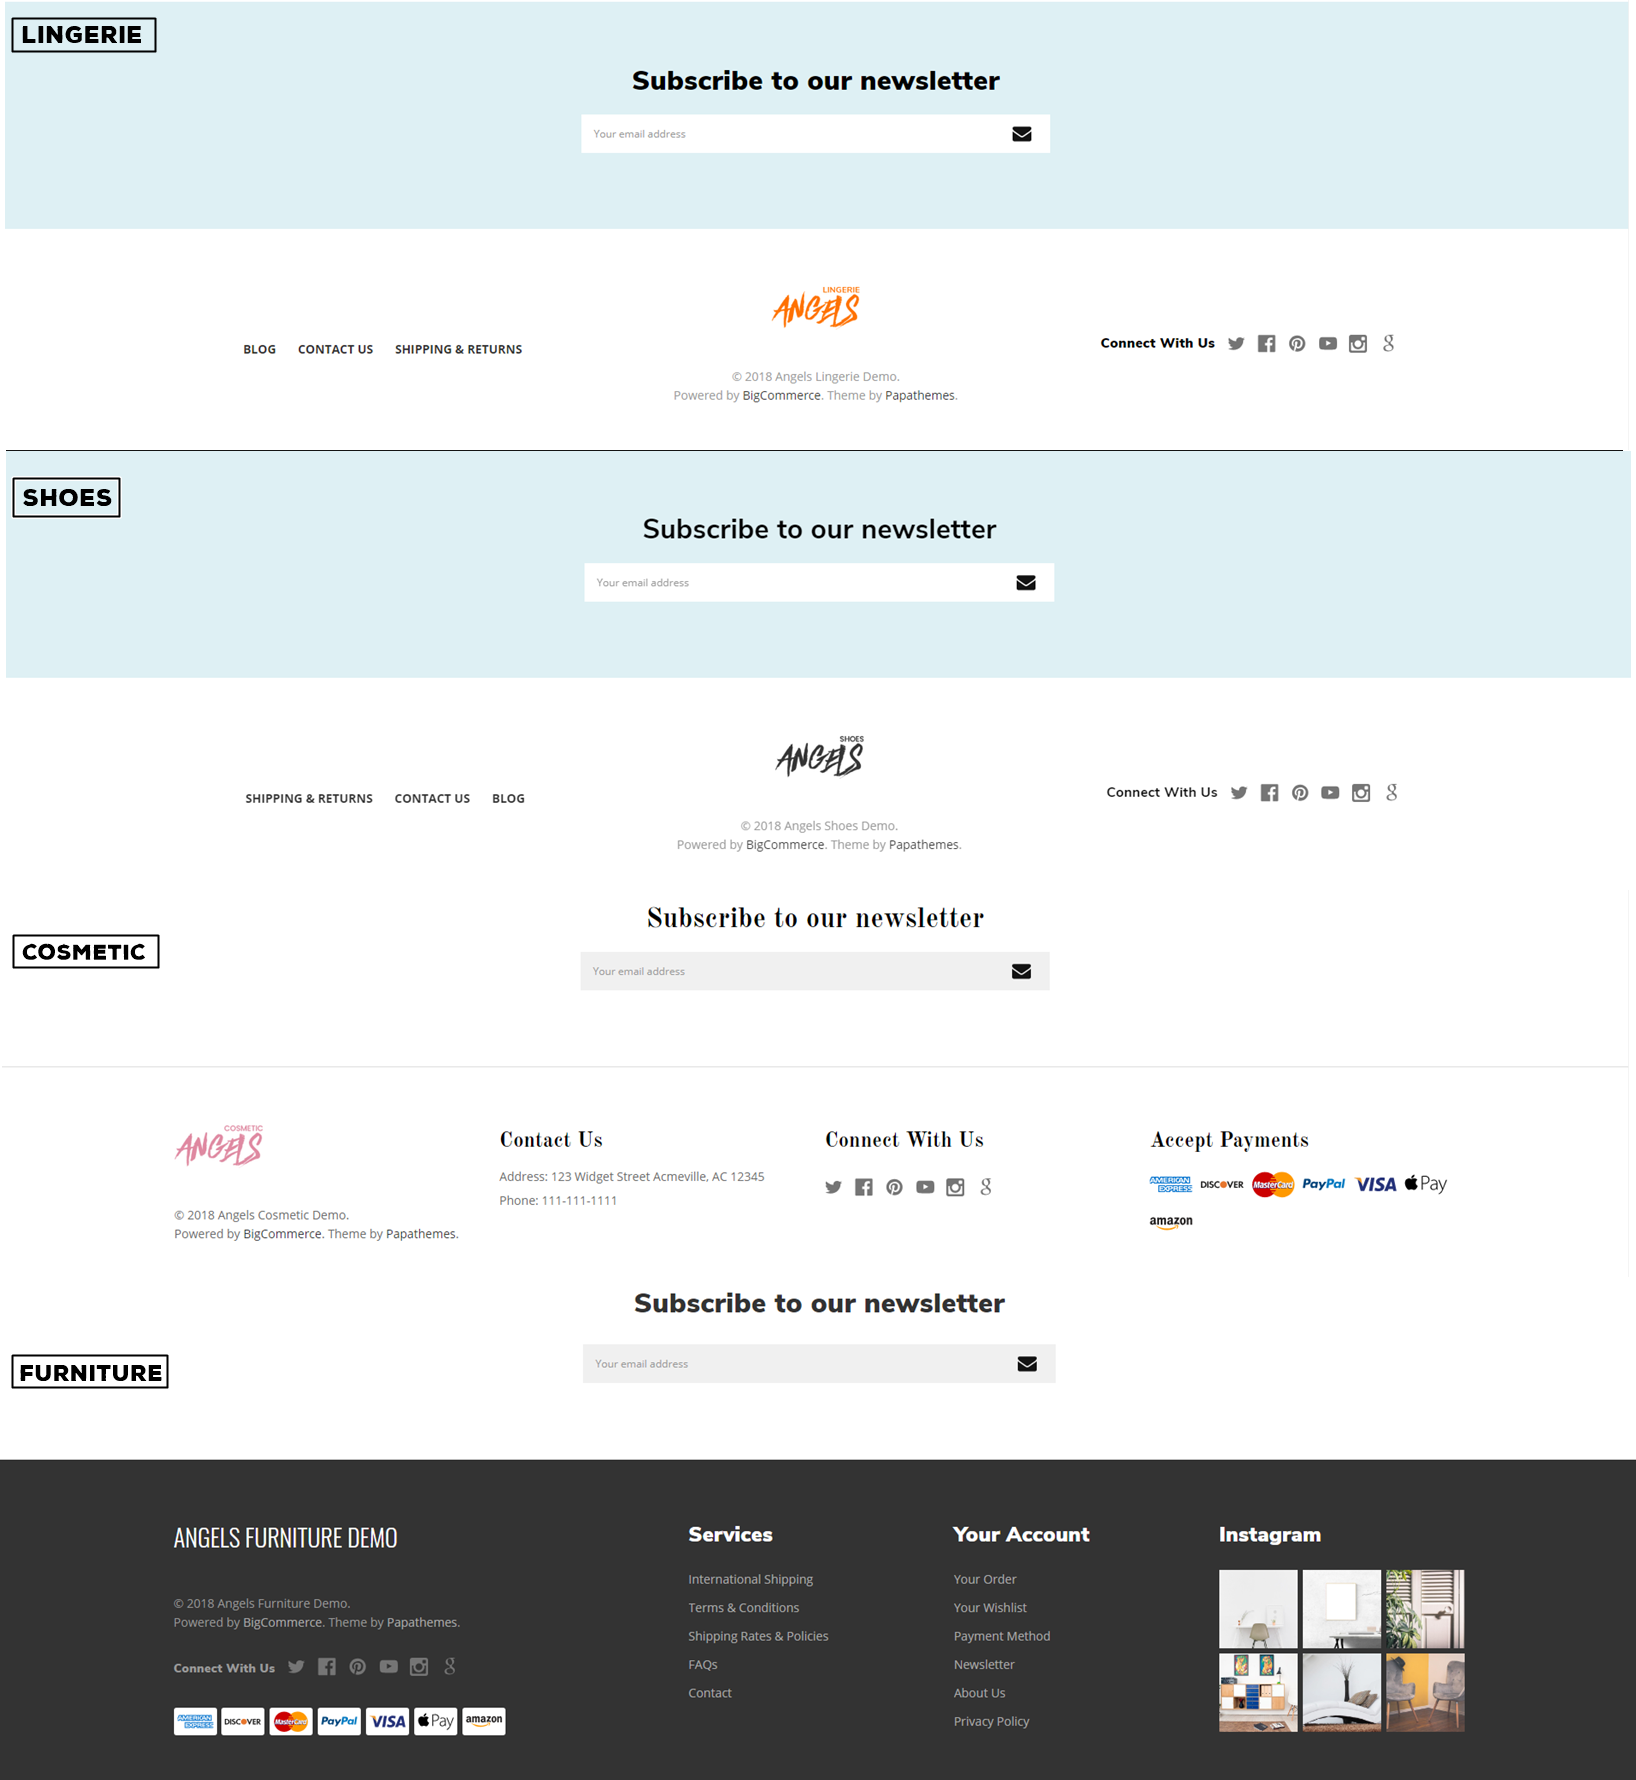
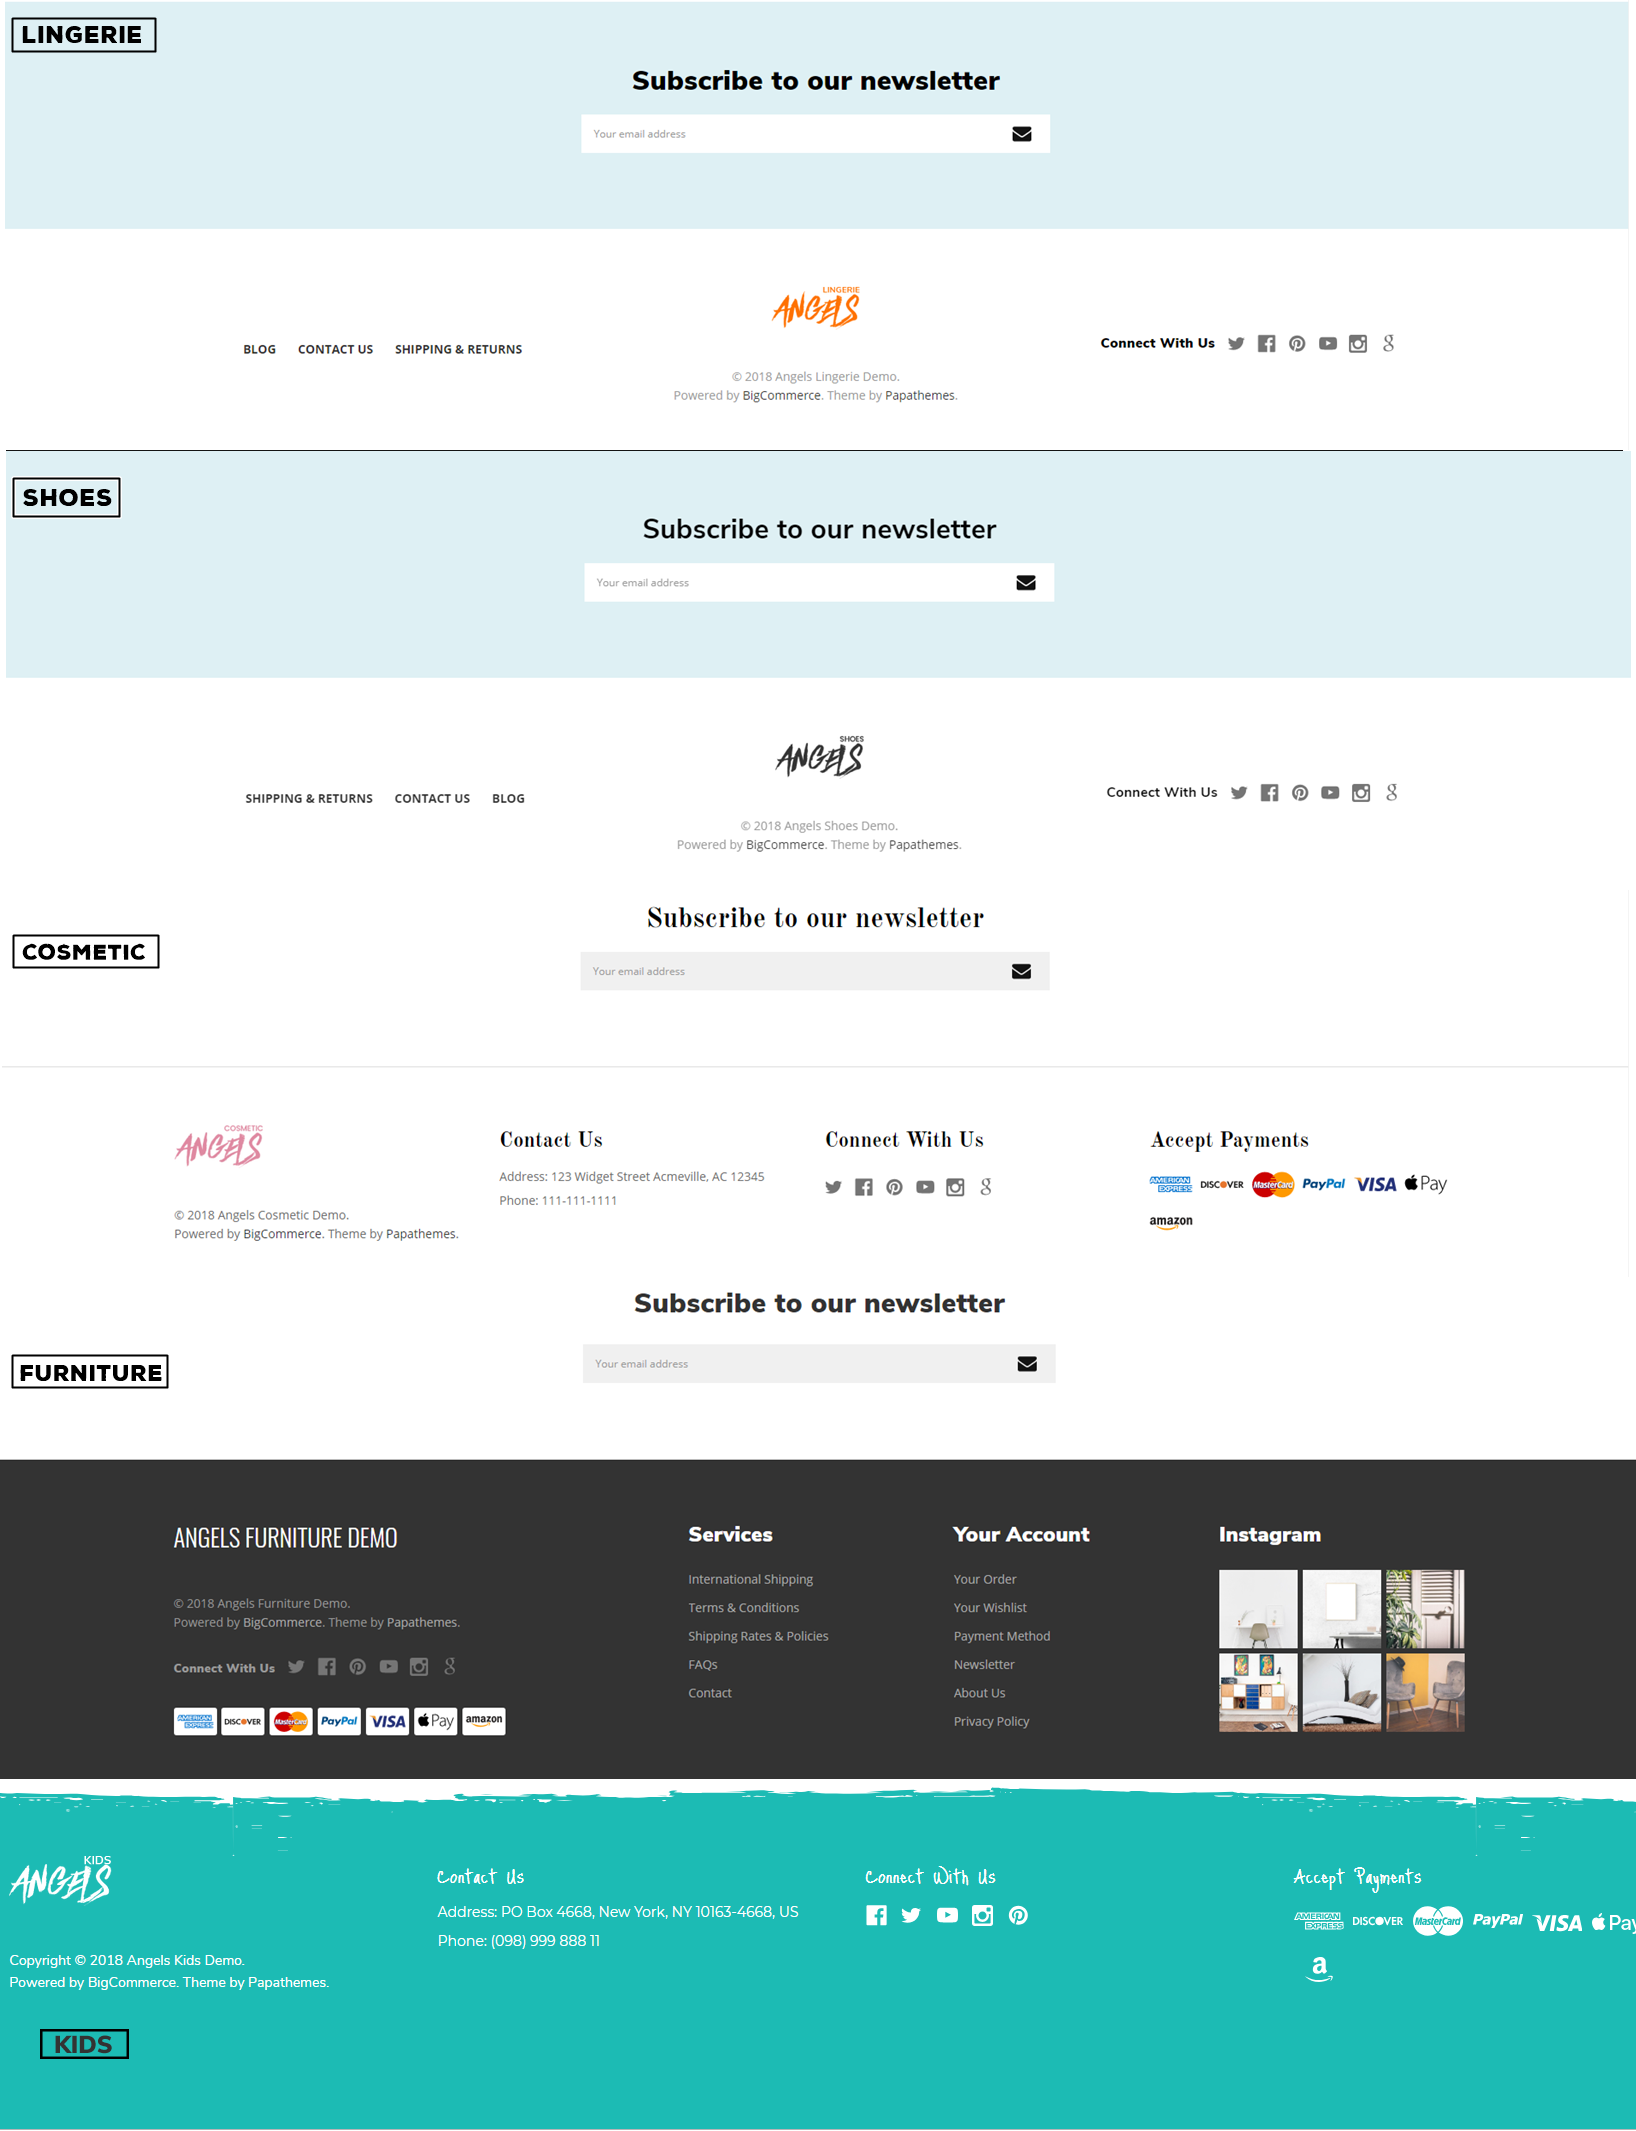
update docs for kids variation
update docs for kids variation

diff --git a/docs/customization.md b/docs/customization.md
@@ -1162,6 +1162,10 @@ You can select the sections displayed on the homepage (maximum 10 sections) in *
 * **angels-furniture-fullwidth-banner**
 * **angels-furniture-products-tabs**
 * **angels-furniture-blog**
+* **angels-kids-column-banners**
+* **angels-kids-popular-products**
+* **angels-kids-fullwidth-banner**
+* **angels-kids-blog**
 * **angels-products-by-category1**
 * **angels-products-by-category2**
 * **angels-products-by-category3**
@@ -2071,6 +2075,175 @@ You can select the sections displayed on the homepage (maximum 10 sections) in *
 {{/partial}}
 ```
 
+## CUSTOM HOMEPAGE KIDS:
+###Default sections:###
+
+* **angels-kids-column-banners**
+* **angels-kids-popular-products**
+* **angels-kids-fullwidth-banner**
+* **angels-kids-blog**
+
+## - Section Columns Banners
+![homepage 3 banners](img/homepage-style-5-section-1.png)
+
+* You can change content of this section by edit the file `templates/angels-custom.html`.
+* You need to change HTML Code content from `HTML Content` and insert it in between the 2 lines `Paste the custom section code below this line` and `Paste the custom section code above this line`.
+
+![homepage 3 banners](img/how-to-overwrite-a-section-content.png)
+
+* **HTML Content:**
+
+```html
+{{#partial "angels-kids-fullwidth-banner"}}
+<div class="chiara-section angels-section--kidsColumnBanners">
+    <div class="angels-kidsColumnBanners angels-kidsColumnBanners--boxed">
+        <div class="angels-kidsColumnBanners-cols">
+            <div class="angels-kidsColumnBanners-item wow fadeIn">
+                <div class="angels-kidsColumnBanners-item-inner tm-hoverImg">
+                    <div class="angels-kidsColumnBanners-img-container">
+                        <a href="#"><img class="angels-kidsColumnBanners-img lazyload" data-scale="1" src="{{cdn 'assets/img/loading.svg'}}" data-src="//cdn11.bigcommerce.com/s-gcbu0xssif/product_images/uploaded_images/angels-kids-col-banner1.jpg" width="570" height="310" alt="570x310" /></a>
+                    </div>
+                    <div class="angels-kidsColumnBanners-content tm-inview" data-movement="-20">
+                        <p class="angels-kidsColumnBanners-subtitle">girl’s 4-12 year old</p>
+                        <p class="angels-kidsColumnBanners-title">Girl’s Summer</p>
+                        <p class="angels-kidsColumnBanners-action"><a href="#">shop now</a></p>
+                    </div>
+                </div>
+            </div>
+            <div class="angels-kidsColumnBanners-item wow fadeIn" data-wow-delay="200ms">
+                <div class="angels-kidsColumnBanners-item-inner tm-hoverImg">
+                    <div class="angels-kidsColumnBanners-img-container">
+                        <a href="#"><img class="angels-kidsColumnBanners-img lazyload" data-scale="1" src="{{cdn 'assets/img/loading.svg'}}" data-src="//cdn11.bigcommerce.com/s-gcbu0xssif/product_images/uploaded_images/angels-kids-col-banner2.jpg" width="570" height="310" alt="570x310" /></a>
+                    </div>
+                    <div class="angels-kidsColumnBanners-content tm-inview" data-movement="-20">
+                        <p class="angels-kidsColumnBanners-subtitle">boy 4-12 year old</p>
+                        <p class="angels-kidsColumnBanners-title">Sweet Boy</p>
+                        <p class="angels-kidsColumnBanners-action"><a href="#">shop now</a></p>
+                    </div>
+                </div>
+            </div>
+        </div>
+    </div>
+</div>
+{{/partial}}
+```
+
+## - Section Popular Products
+![homepage 3 banners](img/homepage-style-5-section-2.png)
+
+* You can change content of this section by edit the file `templates/angels-custom.html`.
+* You need to change HTML Code content from `HTML Content` and insert it in between the 2 lines `Paste the custom section code below this line` and `Paste the custom section code above this line`.
+
+![homepage 3 banners](img/how-to-overwrite-a-section-content.png)
+
+* **HTML Content:**
+
+```html
+{{#partial "angels-kids-trending-products"}}
+<div class="chiara-section angels-section--kidsTrendingProducts">
+    <div class="angels-kidsTrendingProducts">
+        <h2 class="page-heading">Popular products</h2>
+        <ul class="angels-kidsTrendingProducts-tabs">
+            <li class="angels-kidsTrendingProducts-tab"><a href="http://angels-kids-demo.mybigcommerce.com/boys/">Boys</a></li>
+            <li class="angels-kidsTrendingProducts-tab"><a href="http://angels-kids-demo.mybigcommerce.com/girls/">Girls</a></li>
+            <li class="angels-kidsTrendingProducts-tab"><a href="http://angels-kids-demo.mybigcommerce.com/baby-girls/">Baby girls</a></li>
+            <li class="angels-kidsTrendingProducts-tab"><a href="http://angels-kids-demo.mybigcommerce.com/baby-boys/">Baby boys</a></li>
+        </ul>
+        {{> components/chiara/products/grid products=products.new}}
+        <p class="angels-kidsTrendingProducts-browseAll"><a href="http://angels-kids-demo.mybigcommerce.com/boys/">View all products</a></p>
+    </div>
+</div>
+{{/partial}}
+```
+
+## - Section Fullwidth Banner
+![homepage 3 banners](img/homepage-style-5-section-3.png)
+
+* You can change content of this section by edit the file `templates/angels-custom.html`.
+* You need to change HTML Code content from `HTML Content` and insert it in between the 2 lines `Paste the custom section code below this line` and `Paste the custom section code above this line`.
+
+![homepage 3 banners](img/how-to-overwrite-a-section-content.png)
+
+* **HTML Content:**
+
+```html
+{{#partial "angels-kids-fullwidth-banner"}}
+<div class="chiara-section angels-section--kidsFullwidthBanner">
+    <div class="angels-kidsFullwidthBanner wow fadeIn">
+        <div class="angels-kidsFullwidthBanner-inner">
+            <div class="angels-kidsFullwidthBanner-img-container">
+                <a href="#"><img class="angels-kidsFullwidthBanner-img lazyload" data-scale="1" src="{{cdn 'assets/img/loading.svg'}}" data-src="//cdn11.bigcommerce.com/s-gcbu0xssif/product_images/uploaded_images/angels-kids-fullwidth-banner.jpg" width="1920" height="480" alt="1920x480" /></a>
+            </div>
+            <div class="angels-kidsFullwidthBanner-content tm-inview" data-movement="-20">
+                <p class="angels-kidsFullwidthBanner-subtitle">Discover</p>
+                <p class="angels-kidsFullwidthBanner-title">Mid-season sale</p>
+                <div class="angels-kidsFullwidthBanner-desc">
+                    <p>Donec ullamcorper nulla non metus auctor fringilla. Sed posuere consectetur est at lobortis. </p>
+                </div>
+                <p class="angels-kidsFullwidthBanner-action"><a href="#">View more</a></p>
+            </div>
+        </div>
+    </div>
+</div>
+{{/partial}}
+```
+
+## - Section Blog
+![homepage 3 banners](img/homepage-style-5-section-5.png)
+
+* You can change content of this section by edit the file `templates/angels-custom.html`.
+* You need to change HTML Code content from `HTML Content` and insert it in between the 2 lines `Paste the custom section code below this line` and `Paste the custom section code above this line`.
+
+![homepage 3 banners](img/how-to-overwrite-a-section-content.png)
+
+* **HTML Content:**
+
+```html
+{{#partial "angels-cosmetic-blog"}}
+<div class="chiara-section angels-section--blog">
+    <div class="angels-kidsBlog">
+        <div class="angels-kidsBlog-blog wow fadeIn">
+            <h3 class="angels-kidsBlog-title">From our blog</h3>
+            <ul class="angels-kidsBlog-posts">
+                {{#each blog.recent_posts}}
+                    <li class="angels-kidsBlog-posts-item">
+                        <p class="angels-cosmeticBlog-post-date" data-moment-input-format="MMM Do YYYY">{{date_published}}</p>
+                        {{#if tags}}
+                            <ul class="angels-kidsBlog-post-tags">
+                                {{#each tags}}
+                                <li class="angels-kidsBlog-post-tags-item">
+                                    <a href="{{url}}">{{name}}</a>
+                                </li>
+                                {{/each}}
+                            </ul>
+                        {{/if}}
+                        <h4 class="angels-kidsBlog-post-title"><a href="{{url}}">{{title}}</a></h4>
+                        {{#if author}}
+                            <p class="angels-kidsBlog-post-author">{{lang 'blog.posted_by' name=author}}</p>
+                        {{/if}}
+                    </li>
+                {{/each}}
+            </ul>
+        </div>
+        <div class="angels-kidsBlog-video wow fadeIn" data-wow-delay="200ms">
+            <h3 class="angels-kidsBlog-title">Fashion Show</h3>
+            <div class="angels-kidsBlog-video-banner tm-hoverImg">
+                <div class="angels-kidsBlog-video-img-container"><img class="angels-kidsBlog-video-img lazyload" src="{{cdn 'assets/img/loading.svg'}}" data-src="//store-nzb8vo3i1v.mybigcommerce.com/product_images/uploaded_images/angels-kids-blog-video.jpg" width="570" height="360" alt="570x360"></div>
+                <div class="angels-kidsBlog-video-content tm-inview" data-movement="-30">
+                    <p class="angels-kidsBlog-video-title">Moscow show children wear</p>
+                    <p class="angels-kidsBlog-video-action"><a href="#" title="Play">
+                        <span class="fa-stack fa-2x">
+                            <i class="fas fa-circle fa-stack-2x"></i>
+                            <i class="fas fa-play fa-stack-1x fa-inverse"></i>
+                          </span>
+                    </a></p>
+                </div>
+            </div>
+        </div>
+    </div>
+</div>
+{{/partial}}
+```
 
 ## Products Sections (New / Featured / Bestselling)
 
